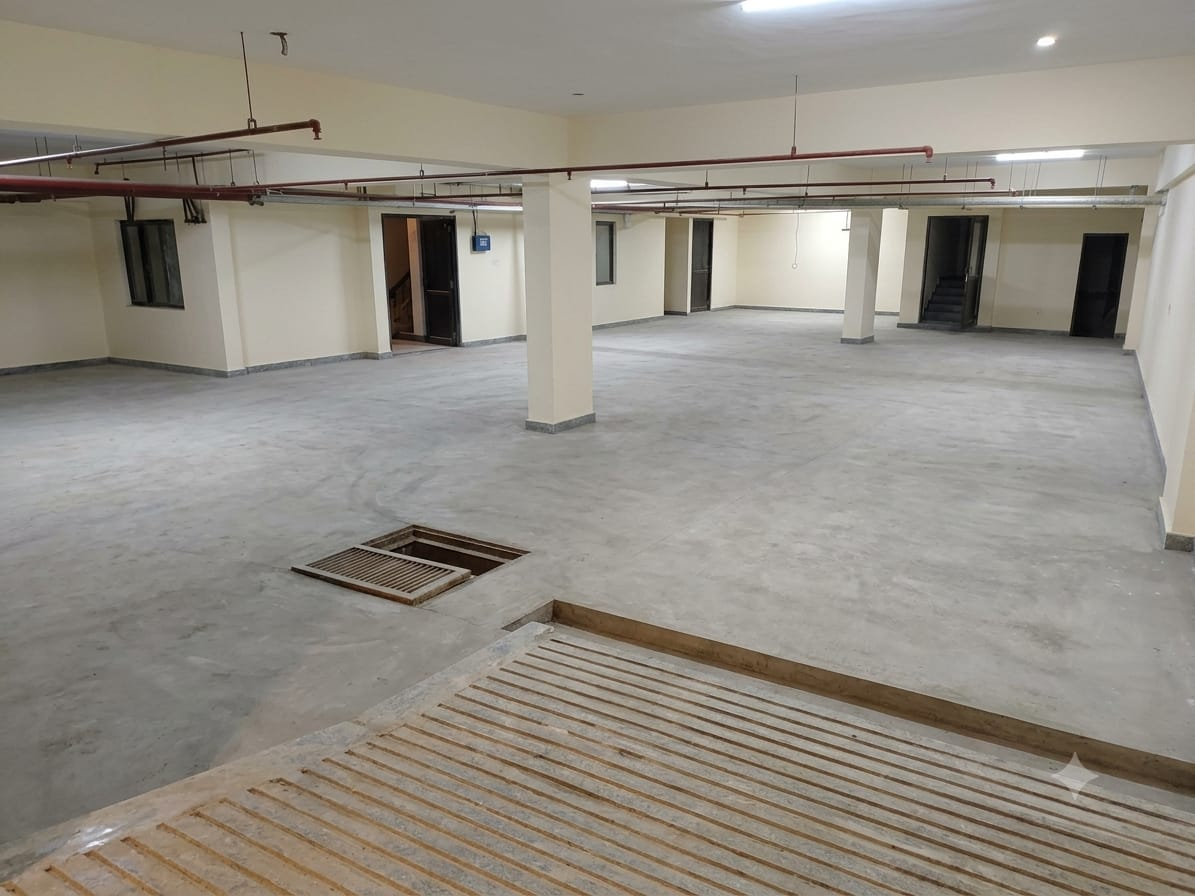
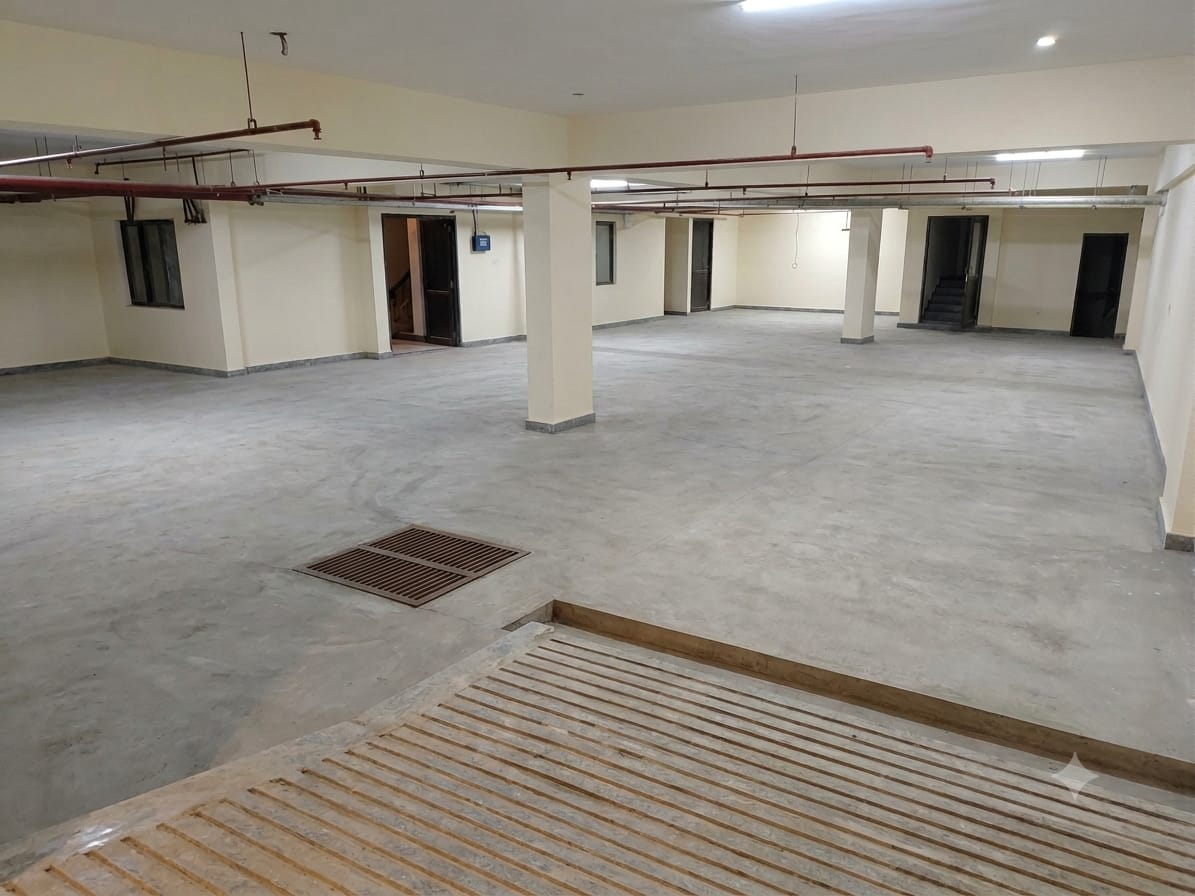
feat: add booking confirmation email functionality and update hotel branding copy

Changed region(s): [[0.2477, 0.5625, 0.4335, 0.6875]]

diff --git a/lib/email-templates.ts b/lib/email-templates.ts
@@ -52,3 +52,50 @@ export function getPromotionalEmailTemplate(title: string, content: string, ctaL
     </div>
   `;
 }
+
+export function getBookingConfirmationEmailTemplate(data: {
+  bookingNumber: string;
+  primaryGuestName: string;
+  guestNames: string[];
+  checkIn: string;
+  checkOut: string;
+  roomsCount: number;
+  totalAmount: number;
+}) {
+  const guestsListHtml = data.guestNames.map(name => `<li style="margin-bottom: 4px;">${name}</li>`).join('');
+  return `
+    <div style="font-family: Arial, sans-serif; max-width: 600px; margin: 0 auto; padding: 20px; border: 1px solid #eee; border-radius: 10px;">
+      <div style="text-align: center; margin-bottom: 20px;">
+        <h2 style="color: #1a365d; margin: 0;">Hotel Samrat Sheraton</h2>
+      </div>
+      <div style="background-color: #f8fafc; padding: 20px; border-radius: 8px; margin-bottom: 20px;">
+        <h3 style="color: #334155; margin-top: 0;">Booking Confirmed!</h3>
+        <p style="color: #475569; line-height: 1.6;">
+          Dear ${data.primaryGuestName},<br/><br/>
+          Thank you for choosing Hotel Samrat Sheraton. Your reservation has been successfully confirmed. Below are your booking details:
+        </p>
+        <div style="background-color: #f8fafc; padding: 15px; border: 1px solid #e2e8f0; border-radius: 5px; margin-top: 20px;">
+          <p style="margin: 5px 0;"><strong>Booking ID:</strong> ${data.bookingNumber}</p>
+          <p style="margin: 5px 0;"><strong>Check-in:</strong> ${data.checkIn}</p>
+          <p style="margin: 5px 0;"><strong>Check-out:</strong> ${data.checkOut}</p>
+          <p style="margin: 5px 0;"><strong>Rooms:</strong> ${data.roomsCount}</p>
+          <div style="margin: 15px 0;">
+            <strong style="color: #334155;">Guest List:</strong>
+            <ul style="margin: 8px 0 0 0; padding-left: 20px; color: #475569;">
+              ${guestsListHtml}
+            </ul>
+          </div>
+          <hr style="border: 0; border-top: 1px solid #e2e8f0; margin: 15px 0;" />
+          <p style="margin: 5px 0; font-size: 18px; color: #1a365d;"><strong>Total Amount:</strong> Rs. ${data.totalAmount.toFixed(2)}</p>
+        </div>
+        <p style="color: #475569; font-size: 14px; margin-top: 20px;">
+          We look forward to hosting you! If you have any questions, feel free to reply to this email.
+        </p>
+      </div>
+      <div style="text-align: center; color: #94a3b8; font-size: 12px;">
+        <p>&copy; ${new Date().getFullYear()} Hotel Samrat Sheraton. All rights reserved.</p>
+        <p>Manduadih, Industrial estate road, Shivdaspur, Varanasi</p>
+      </div>
+    </div>
+  `;
+}

diff --git a/components/sections/about.tsx b/components/sections/about.tsx
@@ -46,20 +46,20 @@ export function About() {
 
           <div>
             <SectionHeading
-              eyebrow="About Samrat"
-              title="Find The Best Hotel For Accommodation"
+              eyebrow="Welcome to Hotel Samrat Sheraton"
+              title="The Best Hotel For Accommodation"
               align="left"
             />
             <div className="mt-6 space-y-4 text-muted-foreground leading-relaxed">
               <p>
-                Welcome to Samrat Sheraton, a comfortable 3-star hotel located in the spiritual and historic city of Varanasi, India.
+                Welcome to Hotel Samrat Sheraton, a comfortable hotel located in the spiritual and historic city of Varanasi, India.
                 We offer luxurious and thoughtfully designed stay options to make every visit relaxing and memorable.
                 Our dedicated team is committed to providing warm hospitality and attentive service throughout your stay.
               </p>
               <p>
                 Guests can enjoy convenient facilities including transport services, secure lockers, an in-house restaurant, and car parking.
                 Whether you are visiting Varanasi for pilgrimage, leisure, or business, we provide a welcoming base to explore the city.
-                At Samrat Sheraton, we bring together comfort, convenience, and genuine Indian hospitality for an enjoyable stay.
+                At Hotel Samrat Sheraton, we bring together comfort, convenience, and genuine Indian hospitality for an enjoyable stay.
               </p>
             </div>
 

diff --git a/app/(main)/rooms/[slug]/booking-form.tsx b/app/(main)/rooms/[slug]/booking-form.tsx
@@ -4,7 +4,7 @@ import { useState, useEffect } from 'react';
 import { Calendar, User, CreditCard, CheckCircle2, Loader2, ArrowLeft, Edit2 } from 'lucide-react';
 import { CURRENCY } from '@/lib/constants';
 import { motion, AnimatePresence } from 'framer-motion';
-import { createBooking, GuestDetail, getGuestByUserId } from './booking.action';
+import { createBooking, GuestDetail, getGuestByUserId, sendBookingConfirmationEmailAction } from './booking.action';
 import { sendOtp, verifyOtp } from '@/app/actions/auth';
 import { useRouter } from 'next/navigation';
 
@@ -201,6 +201,19 @@ export function BookingForm({ price, occupancy, roomTypeId, petFriendly, user }:
 
     if (res.success) {
       setBookingNumber(res.bookingNumber || '');
+      
+      // Send confirmation email asynchronously (fire and forget)
+      sendBookingConfirmationEmailAction({
+        email,
+        bookingNumber: res.bookingNumber || '',
+        primaryGuestName: bookingPersonName,
+        guestNames: guestsData.map(g => g.fullName).filter(Boolean),
+        checkIn,
+        checkOut,
+        roomsCount: rooms,
+        totalAmount: total
+      });
+
       setStep(4);
       // Dispatch event to update navbar session state
       window.dispatchEvent(new Event('auth-updated'));

diff --git a/app/(main)/rooms/[slug]/booking.action.ts b/app/(main)/rooms/[slug]/booking.action.ts
@@ -4,6 +4,8 @@ import { db } from '@/lib/db';
 import { createSession } from '@/lib/session';
 import { IDType } from '@prisma/client';
 import crypto from 'crypto';
+import { sendEmail } from '@/lib/email';
+import { getBookingConfirmationEmailTemplate } from '@/lib/email-templates';
 
 export type GuestDetail = {
   fullName: string;
@@ -273,6 +275,30 @@ export async function getGuestByUserId(userId: number) {
   } catch (error) {
     console.error("Error fetching guest details:", error);
     return null;
+  }
+}
+
+export async function sendBookingConfirmationEmailAction(data: {
+  email: string;
+  bookingNumber: string;
+  primaryGuestName: string;
+  guestNames: string[];
+  checkIn: string;
+  checkOut: string;
+  roomsCount: number;
+  totalAmount: number;
+}) {
+  try {
+    const html = getBookingConfirmationEmailTemplate(data);
+    await sendEmail({
+      to: data.email,
+      subject: `Booking Confirmed: ${data.bookingNumber} - Samrat Sheraton`,
+      html,
+    });
+    return { success: true };
+  } catch (error: any) {
+    console.error("Error sending booking confirmation email:", error);
+    return { success: false, error: error.message };
   }
 }
 

diff --git a/components/auth/login-modal.tsx b/components/auth/login-modal.tsx
@@ -101,11 +101,11 @@ export function LoginModal({ onClose, onLoginSuccess }: { onClose: () => void, o
         {step === 'mobile' && (
           <form onSubmit={handleSendOtp} className="space-y-4">
             <div>
-              <label className="block text-sm font-medium text-navy mb-1.5">Email or Mobile Number</label>
+              <label className="block text-sm font-medium text-navy mb-1.5">Email Address</label>
               <div className="flex">
                 <input 
                   type="text" 
-                  placeholder="Enter email or 10-digit number" 
+                  placeholder="Enter your email address" 
                   value={identifier}
                   onChange={(e) => setIdentifier(e.target.value)}
                   className="w-full px-4 py-2.5 border border-border rounded-lg text-sm focus:outline-none focus:ring-2 focus:ring-gold/40"

diff --git a/lib/data.ts b/lib/data.ts
@@ -140,7 +140,7 @@ export const facilities = [
     name: 'Transport',
     icon: 'Plane',
     images: [
-      'images/transport.jpeg',
+      'images/transport.png',
     ],
     description:
       'Complimentary airport shuttle and luxury transport services to ensure you arrive in style and comfort wherever you need to go.',
